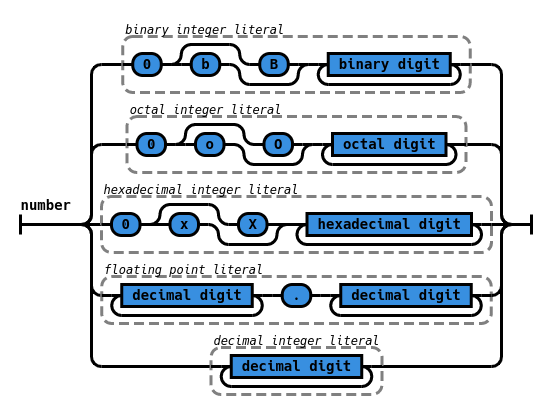
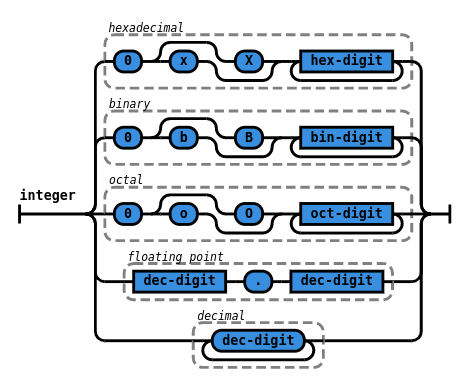
update grammar for number literals

diff --git a/railroad-diagrams.py b/railroad-diagrams.py
@@ -382,39 +382,43 @@ def nstar_struct_constant():
 
 ##################################################################################""
 
+
 def zilch_lambda():
   inner = Choice(
     0,
     Sequence(
       Terminal('lam'),
       Choice(
-        1,
-        NonTerminal('identifier'),
+        1, NonTerminal('identifier'),
         Sequence(
           Terminal('('),
           ZeroOrMore(
-            Sequence(
-              NonTerminal('identifier'),
-              Optional(
-                Sequence(
-                  Terminal(':'),
-                  NonTerminal('type')
-                )
-              )
-            ),
-            Terminal(',')
-          ),
-          Terminal(')')
-        )
-      ),
-      Terminal('->'),
-      NonTerminal('{'),
-      NonTerminal('expression'),
-      NonTerminal('}')
-    ),
-    Terminal('_')
-  )
+            Sequence(NonTerminal('identifier'),
+                     Optional(Sequence(Terminal(':'), NonTerminal('type')))),
+            Terminal(',')), Terminal(')'))), Terminal('->'), NonTerminal('{'),
+      NonTerminal('expression'), NonTerminal('}')), Terminal('_'))
 
   return mk_diagram2('lambda', inner)
 
-zilch_lambda().writeSvg(sys.stdout.write)
+
+def zilch_integer():
+  inner = Choice(
+    2,
+    Group(
+      Sequence(Terminal('0'), HorizontalChoice(Terminal('x'), Terminal('X')),
+               OneOrMore(NonTerminal('hex-digit'))), 'hexadecimal'),
+    Group(
+      Sequence(Terminal('0'), HorizontalChoice(Terminal('b'), Terminal('B')),
+               OneOrMore(NonTerminal('bin-digit'))), 'binary'),
+    Group(
+      Sequence(Terminal('0'), HorizontalChoice(Terminal('o'), Terminal('O')),
+               OneOrMore(NonTerminal('oct-digit'))), 'octal'),
+    Group(
+      Sequence(NonTerminal('dec-digit'), Terminal('.'),
+               NonTerminal('dec-digit')), 'floating point'),
+    Group(OneOrMore('dec-digit'), 'decimal'))
+
+  return mk_diagram2('integer', inner)
+
+
+zilch_integer().writeSvg(sys.stdout.write)
